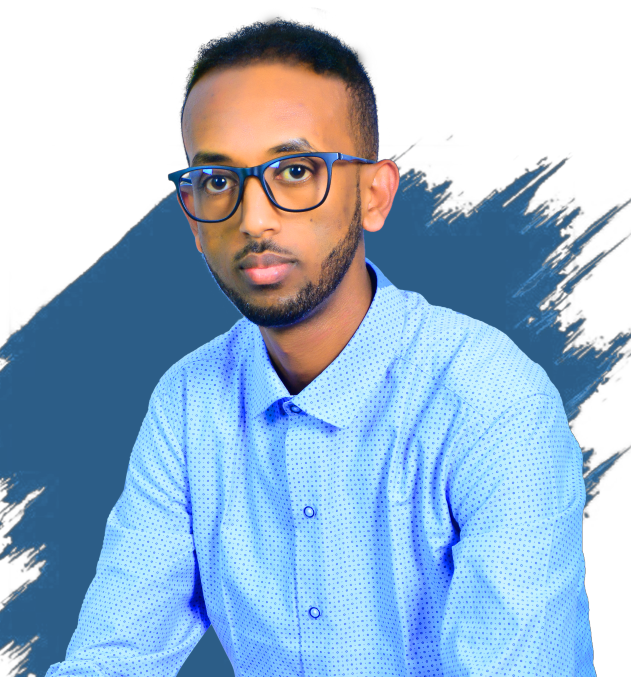
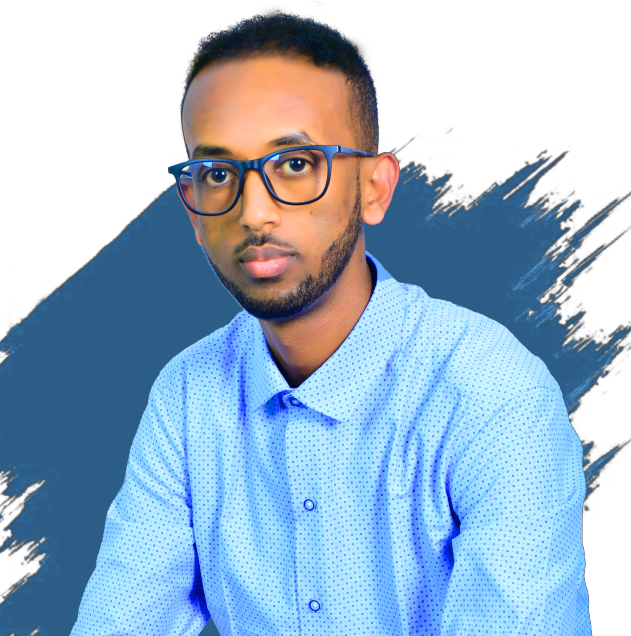
Final Retouches

Changed region(s): [[0.0, 0.2091, 1.0, 1.0], [0.271, 0.0, 0.6022, 0.1494]]

diff --git a/public/index.html b/public/index.html
@@ -4,18 +4,47 @@
     <meta charset="utf-8" />
     <link rel="icon" href="%PUBLIC_URL%/favicon.ico" />
     <meta name="viewport" content="width=device-width, initial-scale=1" />
-    <meta name="theme-color" content="#000000" />
+    <meta name="theme-color" content="#2c5d87" />
     <meta
       name="description"
-      content="Surafel Araya - Software Developer - Portfolio Website"
+      content="Surafel Araya - Full-stack software developer & web designer."
+    />
+
+    <meta
+      name="twitter:image:src"
+      content="%PUBLIC_URL%/img/og-image.jpg?v=4?s=400"
     />
     <meta
+      name="twitter:image"
+      content="%PUBLIC_URL%/img/og-image.jpg?v=4?s=400"
+    />
+    <meta name="twitter:site" content="@surafelaraya" />
+    <meta name="twitter:card" content="summary" />
+    <meta name="twitter:title" content="Surafel Araya - Developer" />
+    <meta
+      name="twitter:description"
+      content="Surafel Araya - Full-stack software developer & web designer."
+    />
+
+    <meta
       property="og:image"
-      content="%PUBLIC_URL%/img/profile-compressed.png"
+      content="%PUBLIC_URL%/img/og-image.jpg?v=4?s=400"
+      itemprop="thumbnailUrl"
+    />
+    <meta
+      property="og:image:alt"
+      content="Surafel Araya - Full-stack software developer & web designer."
+    />
+    <meta property="og:site_name" content="Suraffy" />
+    <meta property="og:type" content="Portfolio" />
+    <meta property="og:title" content="Surafel Araya | Developer" />
+    <meta property="og:url" content="https://suraffy.netlify.app" />
+    <meta
+      property="og:description"
+      content="Surafel Araya - Full-stack software developer & web designer."
     />
 
     <link rel="apple-touch-icon" href="%PUBLIC_URL%/logo192" />
-
     <link rel="manifest" href="%PUBLIC_URL%/manifest.json" />
 
     <title>Surafel Araya | Developer</title>

diff --git a/src/components/Navbar.jsx b/src/components/Navbar.jsx
@@ -1,3 +1,5 @@
+import { useState, useEffect } from "react";
+
 const Navbar = ({
   navStyles,
   mainNavStyles,
@@ -10,18 +12,31 @@ const Navbar = ({
   const darkMode = `${process.env.PUBLIC_URL}/img/dark-mode.svg`;
   const lightMode = `${process.env.PUBLIC_URL}/img/light-mode.svg`;
 
+  const [isImageLoaded, setIsImageLoaded] = useState(false);
+
+  useEffect(() => {
+    const img = new Image();
+    img.src = logoImgUrl;
+
+    img.onload = () => {
+      setIsImageLoaded(true);
+    };
+  }, []);
+
   return (
     <nav style={navStyles}>
       <div className="container">
         <div className="navbar flex-row">
           <div className="logo-container">
-            <img
-              src={logoImgUrl}
-              className="navbar-brand"
-              id="logo-img"
-              alt="web development"
-              onClick={() => window.scrollTo(0, 0)}
-            />
+            {isImageLoaded && (
+              <img
+                src={logoImgUrl}
+                className="navbar-brand"
+                id="logo-img"
+                alt="web development"
+                onClick={() => window.scrollTo(0, 0)}
+              />
+            )}
           </div>
 
           <div className="navbar-toggler" onClick={onNavbarToggle}>
@@ -52,7 +67,7 @@ const Navbar = ({
             <div className="colorMode-toggler" onClick={onChangeColor}>
               <img
                 src={colorMode === "light" ? lightMode : darkMode}
-                width="28px"
+                width="24px"
               />
             </div>
           </div>

diff --git a/src/components/Hero.jsx b/src/components/Hero.jsx
@@ -7,15 +7,13 @@ import {
 } from "@fortawesome/free-brands-svg-icons";
 
 const Hero = ({ colorMode }) => {
-  const loadingImgUrlLightMode = `${process.env.PUBLIC_URL}/img/Spin-1s-200px-light-mode.svg`;
-  const loadingImgUrlDarkMode = `${process.env.PUBLIC_URL}/img/Spin-1s-200px-dark-mode.svg`;
   const profileImgUrl = `${process.env.PUBLIC_URL}/img/profile-compressed.png`;
+  const loadingImgUrl = `${process.env.PUBLIC_URL}/img/Spin-1s-200px.svg`;
 
   const githubAccountUrl = "https://github.com/suraffy";
   const linkedinAccountUrl = "https://www.linkedin.com/in/surafel-araya/";
   const twitterAccountUrl = "https://twitter.com/surafelaraya";
 
-  const [image, setImage] = useState(null);
   const [isImageLoaded, setIsImageLoaded] = useState(false);
 
   useEffect(() => {
@@ -23,7 +21,6 @@ const Hero = ({ colorMode }) => {
     img.src = profileImgUrl;
 
     img.onload = () => {
-      setImage(img);
       setIsImageLoaded(true);
     };
   }, []);
@@ -48,14 +45,7 @@ const Hero = ({ colorMode }) => {
             </div>
           ) : (
             <div className="animated-loading">
-              <img
-                src={
-                  colorMode === "light"
-                    ? loadingImgUrlDarkMode
-                    : loadingImgUrlLightMode
-                }
-                alt="Loading..."
-              />
+              <img src={loadingImgUrl} alt="Loading..." />
             </div>
           )}
         </div>

diff --git a/src/App.js b/src/App.js
@@ -12,7 +12,7 @@ import "./styles/queries.css";
 function App() {
   const root = document.documentElement;
   const darkModeColors =
-    "--background: #292929; --surface: #121212; --navbar-bg: #292929; --box-bg: #1f1f1f; --menu-bg: #2d2d2d; --menu-bg-hover: #353535; --btn-bg: #242424; --btn-bg-hover: #1c1c1c; --text-color: #e1e1e1; --text-color-secondary: #a5a5a5; --text-color-bg: #e8e8e8; --border-soft: #333; --border-medium: #777; --border-hard: #999; --error-text: rgb(199, 0, 0);";
+    "--background: #292929; --surface: #121212; --navbar-bg: #1f1f1f; --box-bg: #1f1f1f; --menu-bg: #2d2d2d; --menu-bg-hover: #353535; --btn-bg: #242424; --btn-bg-hover: #1c1c1c; --text-color: #e1e1e1; --text-color-secondary: #a5a5a5; --text-color-bg: #e8e8e8; --border-soft: #333; --border-medium: #777; --border-hard: #999; --error-text: rgb(199, 0, 0);";
   const lightModeColors =
     "--background: #fff; --surface: #f8f8f8; --navbar-bg: #f8f8f8; --box-bg: #f6f6f6; --menu-bg: #f6f6f6; --menu-bg-hover: #f0f0f0; --btn-bg: #efefef; --btn-bg-hover: #e4e4e4; --text-color: #242424; --text-color-secondary: #444; --text-color-bg: #222; --border-soft: #ccc; --border-medium: #888; --border-hard: #666; --error-text: rgb(199, 0, 0);";
 

diff --git a/src/services/skillsList.js b/src/services/skillsList.js
@@ -5,18 +5,18 @@ const skillsList = [
     img: "css-3.svg",
     details: ["Flexbox, CSS Grid", "Media Queries", "CSS Animation"],
   },
+  // {
+  //   name: "Sass",
+  //   img: "sass.svg",
+  // },
   {
-    name: "Sass",
-    img: "sass.svg",
+    name: "Taiwild",
+    img: "tailwind-css.svg",
   },
   {
     name: "Bootstrap",
     img: "bootstrap.svg",
   },
-  // {
-  //   name: "Taiwild",
-  //   img: "tailwind.svg",
-  // },
   {
     name: "JavaScript",
     img: "javascript.svg",
@@ -29,7 +29,7 @@ const skillsList = [
   },
   {
     name: "Reac.js",
-    img: "react-1.svg",
+    img: "react.svg",
     details: ["React Router", "Redux"],
   },
   {

diff --git a/src/components/Footer.jsx b/src/components/Footer.jsx
@@ -34,8 +34,8 @@ const Footer = ({ colorMode }) => {
             <div className="footer-about-me-text">
               <h4>Surafel Araya</h4>
               <p>
-                Software developer and web designer. Passionate about innovative
-                programming solutions.
+                Full-stack software developer and web designer. Passionate about
+                innovative solutions.
               </p>
             </div>
           </div>

diff --git a/src/styles/style.css b/src/styles/style.css
@@ -294,7 +294,7 @@ nav {
   cursor: pointer;
 }
 
-.filter-item:hover {
+.filter-item:hover:not(.active) {
   background: var(--menu-bg);
 }
 
